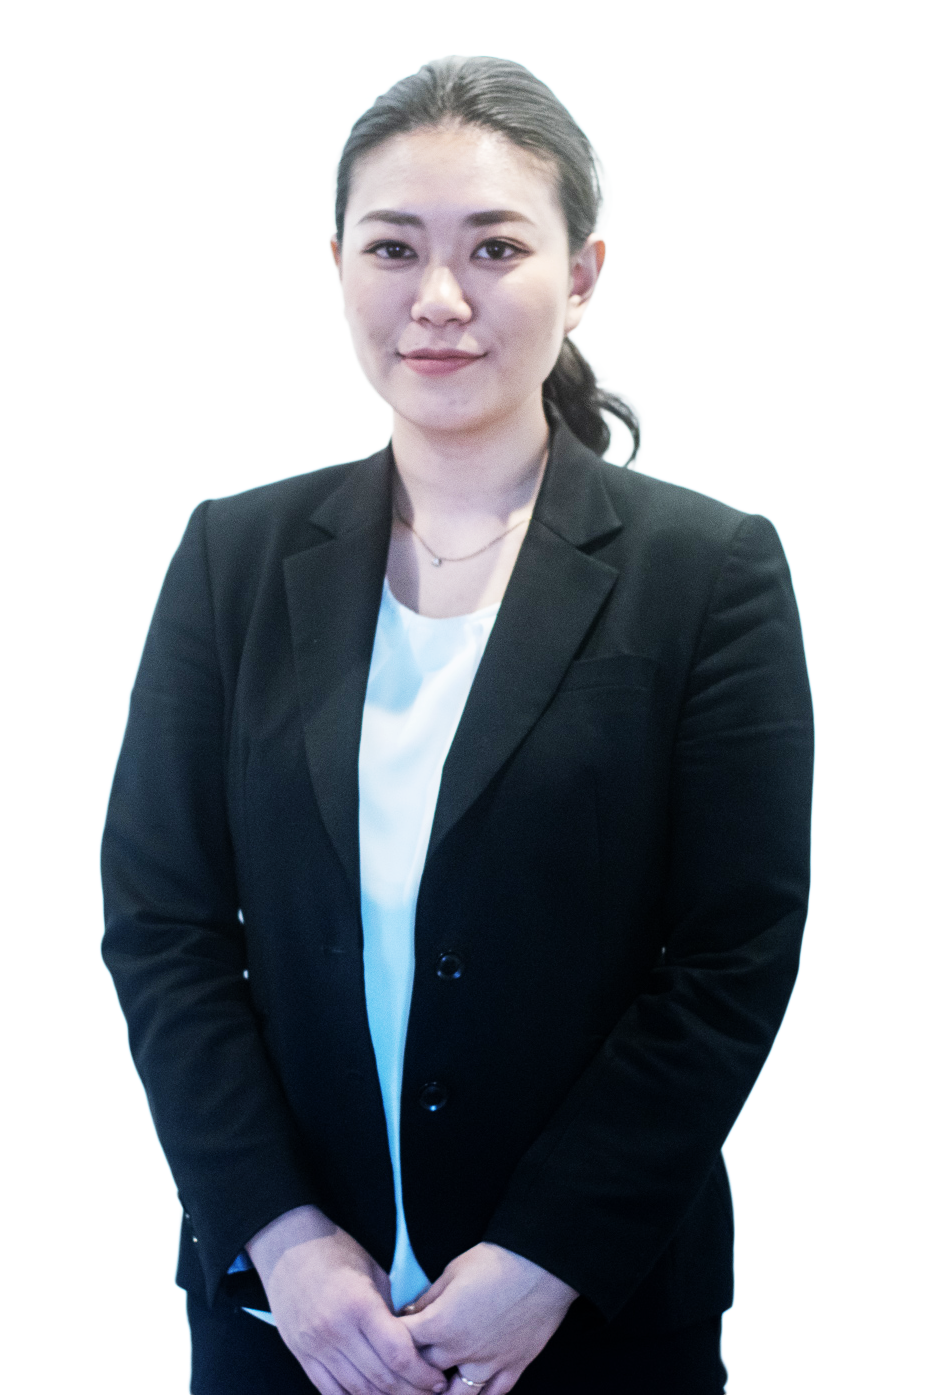
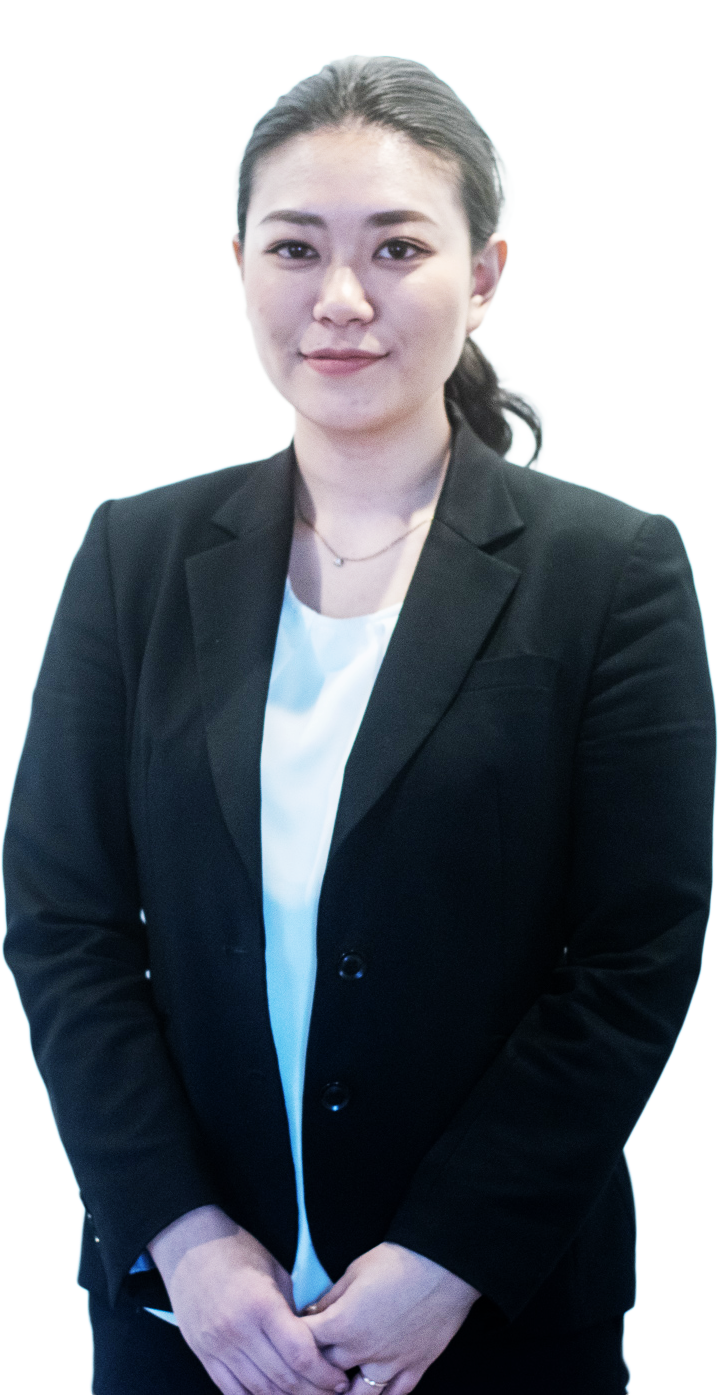
Lp アドバイザーの画像をimgタグに変更

diff --git a/lp/index.html b/lp/index.html
@@ -359,6 +359,9 @@ jQuery(document).ready(function($){
 							<div class="swiper-wrapper">
 
 								<div class="swiper-slide advisor_card advisor_card06 card_female">
+										<div class="advisor_card_img_wrap">
+												<img src="img/adv06.png">
+											</div>
 									<div class="advisor_card_contents">
 										<p class="advisor_card_message sefif lh15">
 											どんなキャリアを選んでも、最後は自分にぴったりの仕事にたどり着ける!
@@ -383,6 +386,9 @@ jQuery(document).ready(function($){
 								</div>
 									
 								<div class="swiper-slide advisor_card advisor_card05 card_female">
+										<div class="advisor_card_img_wrap">
+												<img src="img/adv05.png">
+											</div>
 									<div class="advisor_card_contents">
 										<p class="advisor_card_message sefif lh15">
 											「変わってるね」と言われるあなた、お待ちしております！
@@ -410,6 +416,9 @@ jQuery(document).ready(function($){
 								</div>
 
 								<div class="swiper-slide advisor_card advisor_card04 card_female">
+										<div class="advisor_card_img_wrap">
+												<img src="img/adv04.png">
+											</div>
 									<div class="advisor_card_contents">
 										<p class="advisor_card_message sefif lh15">
 											軸ってひとりじゃなかなか見つかりませんよね。その軸を私と一緒に考えませんか？
@@ -439,6 +448,9 @@ jQuery(document).ready(function($){
 									</div>
 								</div>
 								<div class="swiper-slide advisor_card advisor_card02 card_male">
+										<div class="advisor_card_img_wrap">
+												<img src="img/adv02.png">
+											</div>
 									<div class="advisor_card_contents">
 										<p class="advisor_card_message sefif lh15">
 											私は何となく “大手” に就職して後悔しました。あなたはどうですか？
@@ -472,6 +484,9 @@ jQuery(document).ready(function($){
 									</div>
 								</div>
 								<div class="swiper-slide advisor_card advisor_card03 card_female">
+										<div class="advisor_card_img_wrap">
+												<img src="img/adv03.png">
+											</div>
 									<div class="advisor_card_contents">
 										<p class="advisor_card_message sefif lh15">
 											就活嫌でしょ？面倒くさいでしょ？
@@ -572,6 +587,9 @@ jQuery(document).ready(function($){
 					<div class="contents row advisor_row">
 
 						<div class="box4 box1_sp txt_c advisor_box advisor_card advisor_card06 card_female">
+							<div class="advisor_card_img_wrap">
+								<img src="img/adv06.png">
+							</div>
 							<div class="advisor_card_contents">
 								<p class="advisor_card_message sefif lh15">
 									どんなキャリアを選んでも、最後は自分にぴったりの仕事にたどり着ける!
@@ -596,6 +614,9 @@ jQuery(document).ready(function($){
 						</div>
 
 						<div class="box4 box1_sp txt_c advisor_box advisor_card advisor_card05 card_female">
+							<div class="advisor_card_img_wrap">
+								<img src="img/adv05.png">
+							</div>
 							<div class="advisor_card_contents">
 								<p class="advisor_card_message sefif fs14vw lh15">
 									「変わってるね」と言われるあなた、お待ちしております！
@@ -622,6 +643,9 @@ jQuery(document).ready(function($){
 							</div>
 						</div>
 						<div class="box4 box1_sp txt_c advisor_box advisor_card advisor_card04 card_female">
+							<div class="advisor_card_img_wrap">
+								<img src="img/adv04.png">
+							</div>
 							<div class="advisor_card_contents">
 								<p class="advisor_card_message sefif fs15vw lh15">
 									軸ってひとりじゃなかなか見つかりませんよね。
@@ -653,6 +677,9 @@ jQuery(document).ready(function($){
 						</div>
 
 						<div class="box4 box1_sp txt_c advisor_box advisor_card advisor_card02 card_male">
+							<div class="advisor_card_img_wrap">
+								<img src="img/adv02.png">
+							</div>
 							<div class="advisor_card_contents">
 								<p class="advisor_card_message sefif fs12vw lh15">
 									私は何となく “大手” に就職して後悔しました。あなたはどうですか？
@@ -687,6 +714,9 @@ jQuery(document).ready(function($){
 						</div>
 
 						<div class="box4 box1_sp txt_c advisor_box advisor_card advisor_card03 card_female">
+								<div class="advisor_card_img_wrap">
+										<img src="img/adv03.png">
+									</div>
 							<div class="advisor_card_contents">
 								<p class="advisor_card_message sefif fs12vw lh15">
 									就活嫌でしょ？面倒くさいでしょ？一旦、私と話しましょう！

diff --git a/lp/css/main.css b/lp/css/main.css
@@ -11,15 +11,42 @@ a.disabled {
 
 @media screen and (max-width: 600px) {
   .section_ttl_sub {
-    line-height: 1; } }
+    line-height: 1;
+  }
+}
 
 .advisor_card {
   border-radius: 15px;
   background-size: cover;
   background-position: center;
-  position: relative; }
+  position: relative;
+}
 
-.advisor_card01 {
+.advisor_card_img_wrap {
+  position: absolute;
+  height: 100%;
+  bottom: 0;
+  left: 0;
+  right: 0;
+  margin: auto;
+  overflow: hidden;
+}
+
+.advisor_card_img_wrap img {
+  width: 87%;
+  position: absolute;
+  left: 0;
+  right: 0;
+  margin: auto;
+  bottom: 0;
+  top: 0;
+}
+
+.advisor_card06 .advisor_card_img_wrap img {
+  width: 70%;
+}
+
+/* .advisor_card01 {
   background-image: url("../img/adv01.png"); }
 
 .advisor_card02 {
@@ -35,7 +62,7 @@ a.disabled {
   background-image: url("../img/adv05.png"); }
 
 .advisor_card06 {
-  background-image: url("../img/adv06.png"); }
+  background-image: url("../img/adv06.png"); } */
 
 .card_male {
   background-color: #66A0FF; }
@@ -216,7 +243,7 @@ a.disabled {
 .banner_slider_wrap {
   width: 68%;
   margin: 0 2% 0 2%;
-  height: 700px; }
+  height: 620px; }
   .banner_slider_wrap .swiper-container {
     height: 100%; }
 
@@ -232,7 +259,7 @@ a.disabled {
   .banner_slider_wrap {
     width: 100%;
     margin: 0 15px 0 2%;
-    height: 620px; } }
+    height: 600px; } }
 
 @media screen and (max-width: 600px) {
   #banner {
@@ -246,7 +273,7 @@ a.disabled {
   .banner_slider_wrap {
     width: 100%;
     margin: 0 15px 0 2%;
-    height: 530px; } }
+    height: 500px; } }
 
 .about_box {
   width: 26%;
